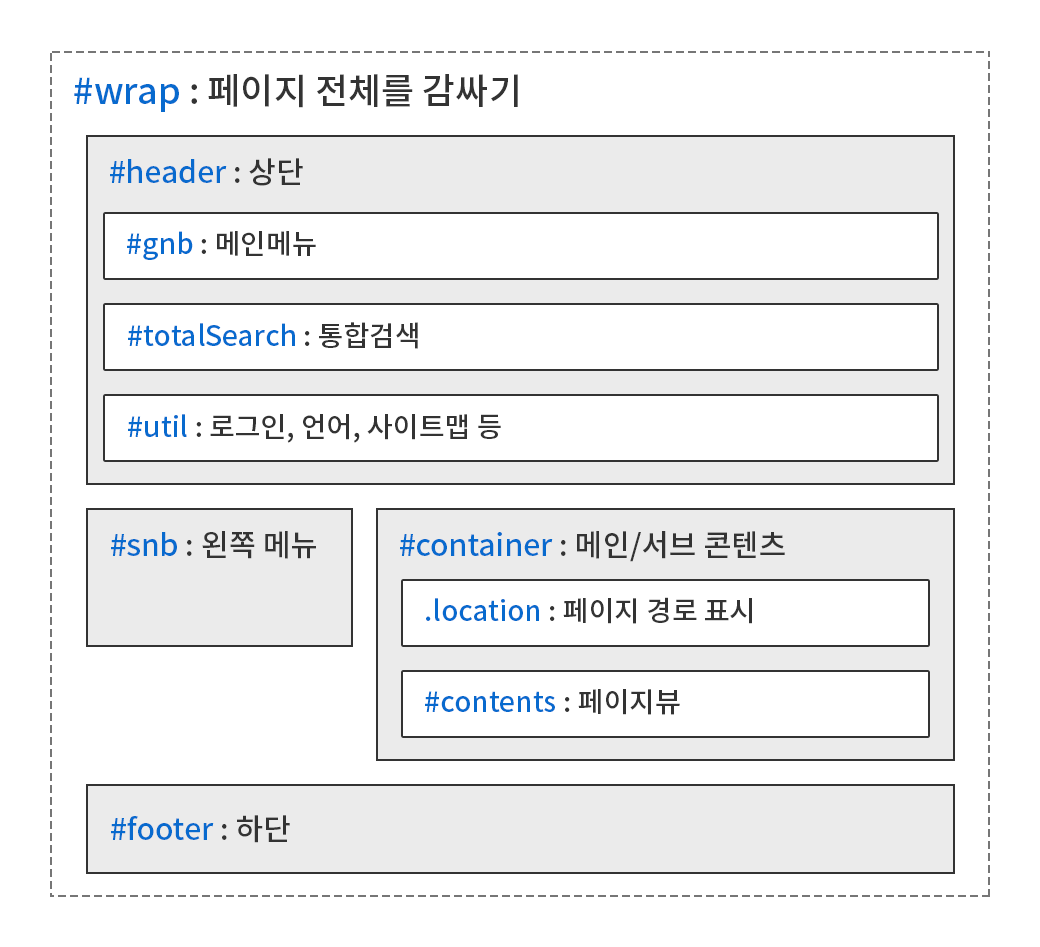
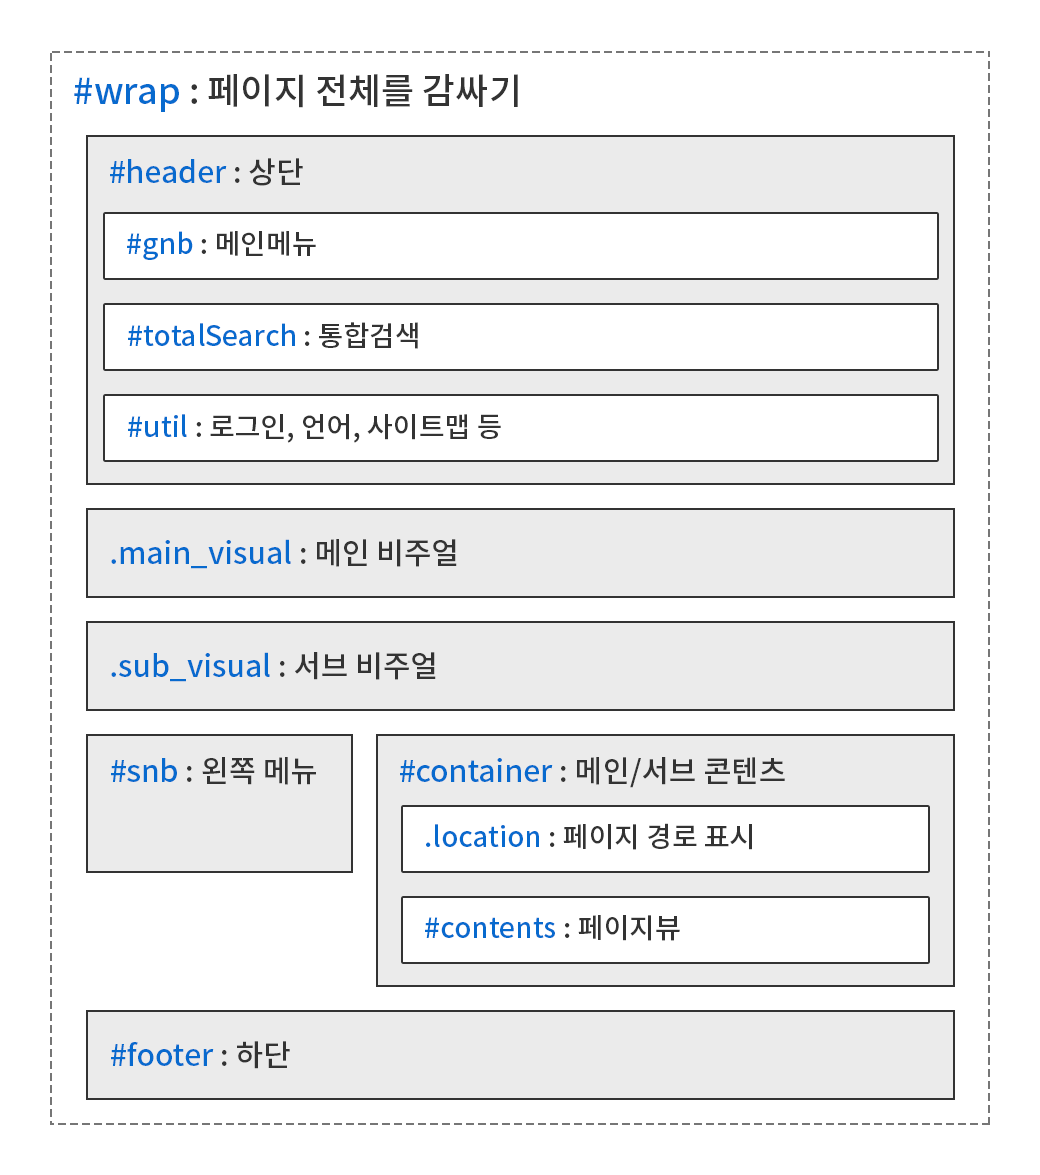
내용 추가 및 이미지 수정

diff --git a/klic-markup-guide.md b/klic-markup-guide.md
@@ -2,40 +2,42 @@
 
 ## 목차
 
-* [개요](#user-content-개요)
-* [개정 이력](#user-content-개정-이력)
-* [1. 공통 규칙](#user-content-1-공통-규칙)
-    * [1.1. 작업자 표기](#user-content-11-작업자-표기)
-    * [1.2. 네이밍](#user-content-12-네이밍)
-        * [1.2.1. HTML/CSS/Javascript ](#user-content-121-htmlcssjavascript-파일명)
-        * [1.2.2. 이미지 파일명](#user-content-122-이미지-파일명)
-        * [1.2.3. 기본 HTML 레이아웃 구조](#user-content-123-기본-html-레이아웃-구조)
-* [2. HTML 코드 작성 규칙](#user-content-2-html-코드-작성-규칙)
-    * [2.1. 마크업 오류 없는 HTML 파일](#user-content-21-마크업-오류-없는-html-파일)
-    * [2.2. 주석 표기](#user-content-22-주석-표기)
-    * [2.3. 들여쓰기](#user-content-23-들여쓰기)
-    * [2.4. 기본 언어 표시](#user-content-24-기본-언어-표시)
-    * [2.5. ID값 선언](#user-content-25-id값-선언)
-        * [2.5.1. ID값 표기법](#user-content-251-id값-표기법)
-    * [2.6. 속성 선언 순서](#user-content-26-속성-선언-순서)
-* [3. CSS 코드 작성 규칙](#user-content-3-css-코드-작성-규칙)
-    * [3.1. 주석 표기](#user-content-31-주석-표기)
-        * [3.1.1. 특정 요소 그룹핑을 위한 주석 표기](#user-content-311-특정-요소-그룹핑을-위한-주석-표기)
-    * [3.2. 의미 있는 요소들 간의 공백](#user-content-32-의미-있는-요소들-간의-공백)
-    * [3.3. 중괄호/콜론/세미콜론 간의 공백](#user-content-33-중괄호콜론세미콜론-간의-공백)
-    * [3.4. 줄바꿈](#user-content-34-줄바꿈)
-    * [3.5. 들여쓰기](#user-content-35-들여쓰기)
-    * [3.6. 마지막 속성의 세미콜론 표기](#user-content-36-마지막-속성의-세미콜론-표기)
-    * [3.7. 통일된 공통 클래스 사용](#user-content-37-통일된-공통-클래스-사용)
-    * [3.8. 태그 선택자 사용 지양](#user-content-38-태그-선택자-사용-지양)
-    * [3.9. 속성값 축약](#user-content-39-속성값-축약)
-    * [3.10. z-index 허용 선언값](#user-content-310-z-index-허용-선언값)
-    * [3.11. !important 선언 사용 금지](#user-content-311-important-선언-사용-금지)
-* [4. Javascript 코드 작성 규칙](#user-content-4-javascript-코드-작성-규칙)
-    * [4.1. 주석 표기](#user-content-41-주석-표기)
-    * [4.2. 들여쓰기](#user-content-42-들여쓰기)
-    * [4.3. 따옴표 표기](#user-content-43-따옴표-표기)
-    * [4.4. 줄바꿈](#user-content-44-줄바꿈)
+- [KLIC 마크업 가이드](#klic-마크업-가이드)
+  - [목차](#목차)
+  - [개요](#개요)
+  - [개정 이력](#개정-이력)
+  - [1. 공통 규칙](#1-공통-규칙)
+    - [1.1. 작업자 표기](#11-작업자-표기)
+    - [1.2. 네이밍](#12-네이밍)
+      - [1.2.1. HTML/CSS/Javascript 파일명](#121-htmlcssjavascript-파일명)
+      - [1.2.2. 이미지 파일명](#122-이미지-파일명)
+      - [1.2.3. 기본 HTML 레이아웃 구조](#123-기본-html-레이아웃-구조)
+  - [2. HTML 코드 작성 규칙](#2-html-코드-작성-규칙)
+    - [2.1. 마크업 오류 없는 HTML 파일](#21-마크업-오류-없는-html-파일)
+    - [2.2. 주석 표기](#22-주석-표기)
+    - [2.3. 들여쓰기](#23-들여쓰기)
+    - [2.4. 기본 언어 표시](#24-기본-언어-표시)
+    - [2.5. ID값 선언](#25-id값-선언)
+      - [2.5.1. ID값 표기법](#251-id값-표기법)
+    - [2.6. 속성 선언 순서](#26-속성-선언-순서)
+  - [3. CSS 코드 작성 규칙](#3-css-코드-작성-규칙)
+    - [3.1. 주석 표기](#31-주석-표기)
+      - [3.1.1. 특정 요소 그룹핑을 위한 주석 표기](#311-특정-요소-그룹핑을-위한-주석-표기)
+    - [3.2. 의미 있는 요소들 간의 공백](#32-의미-있는-요소들-간의-공백)
+    - [3.3. 중괄호/콜론/세미콜론 간의 공백](#33-중괄호콜론세미콜론-간의-공백)
+    - [3.4. 줄바꿈](#34-줄바꿈)
+    - [3.5. 들여쓰기](#35-들여쓰기)
+    - [3.6. 마지막 속성의 세미콜론 표기](#36-마지막-속성의-세미콜론-표기)
+    - [3.7. 통일된 공통 클래스 사용](#37-통일된-공통-클래스-사용)
+    - [3.8. 태그 선택자 사용 지양](#38-태그-선택자-사용-지양)
+    - [3.9. 속성값 축약](#39-속성값-축약)
+    - [3.10. z-index 허용 선언값](#310-z-index-허용-선언값)
+    - [3.11. !important 선언 사용 금지](#311-important-선언-사용-금지)
+  - [4. Javascript 코드 작성 규칙](#4-javascript-코드-작성-규칙)
+    - [4.1. 주석 표기](#41-주석-표기)
+    - [4.2. 들여쓰기](#42-들여쓰기)
+    - [4.3. 따옴표 표기](#43-따옴표-표기)
+    - [4.4. 줄바꿈](#44-줄바꿈)
     
 ---
 
@@ -155,9 +157,9 @@ btn_more.png (O)
 
 #### 1.2.3. 기본 HTML 레이아웃 구조
 
-다음은 HTML의 기본 구조를 나타낸 것이다.
+다음 그림은 기본 HTML 레이아웃을 나타낸 것이다.
 
-<!-- ![HTML 기본 구조](ㅇㅇ) -->
+![HTML 기본 구조](/assets/images/default_layout.png)
 
 ---
 
